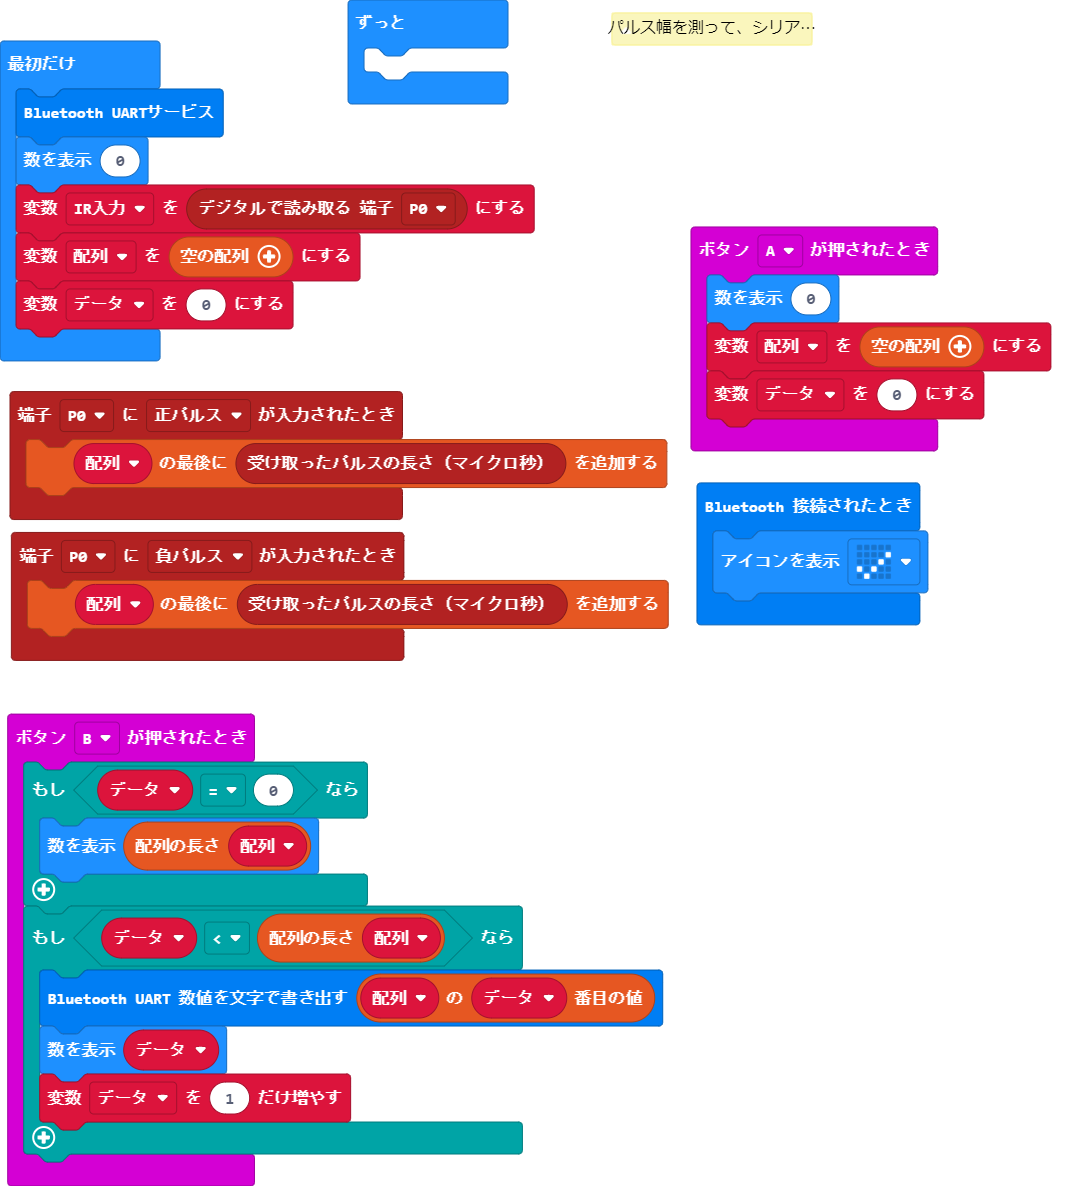
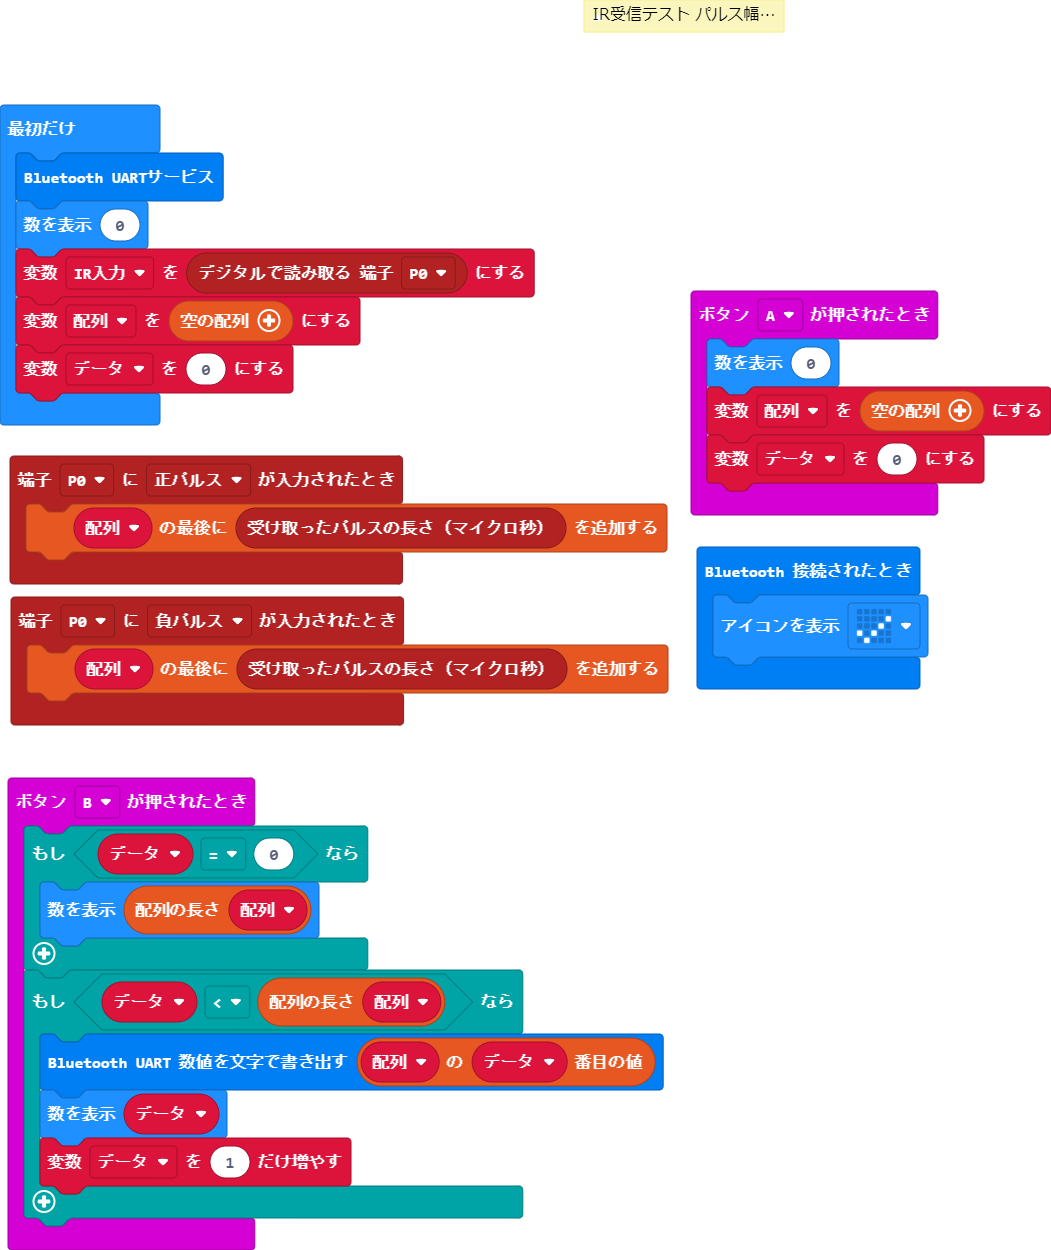
更新 main.blocks, main.ts

diff --git a/main.ts b/main.ts
@@ -1,10 +1,6 @@
-pins.onPulsed(DigitalPin.P0, PulseValue.High, function () {
-    配列.push(pins.pulseDuration())
-})
-bluetooth.onBluetoothConnected(function () {
-    basic.showIcon(IconNames.Yes)
-})
 /**
+ * IR受信テスト
+ * 
  * パルス幅を測って、シリアル通信として受信する
  * 
  * 受信した正パルス幅を配列に格納
@@ -13,6 +9,12 @@ bluetooth.onBluetoothConnected(function () {
  * 
  * Aボタンでクリア
  */
+pins.onPulsed(DigitalPin.P0, PulseValue.High, function () {
+    配列.push(pins.pulseDuration())
+})
+bluetooth.onBluetoothConnected(function () {
+    basic.showIcon(IconNames.Yes)
+})
 input.onButtonPressed(Button.A, function () {
     basic.showNumber(0)
     配列 = []
@@ -38,6 +40,3 @@ basic.showNumber(0)
 let IR入力 = pins.digitalReadPin(DigitalPin.P0)
 配列 = []
 データ = 0
-basic.forever(function () {
-	
-})
